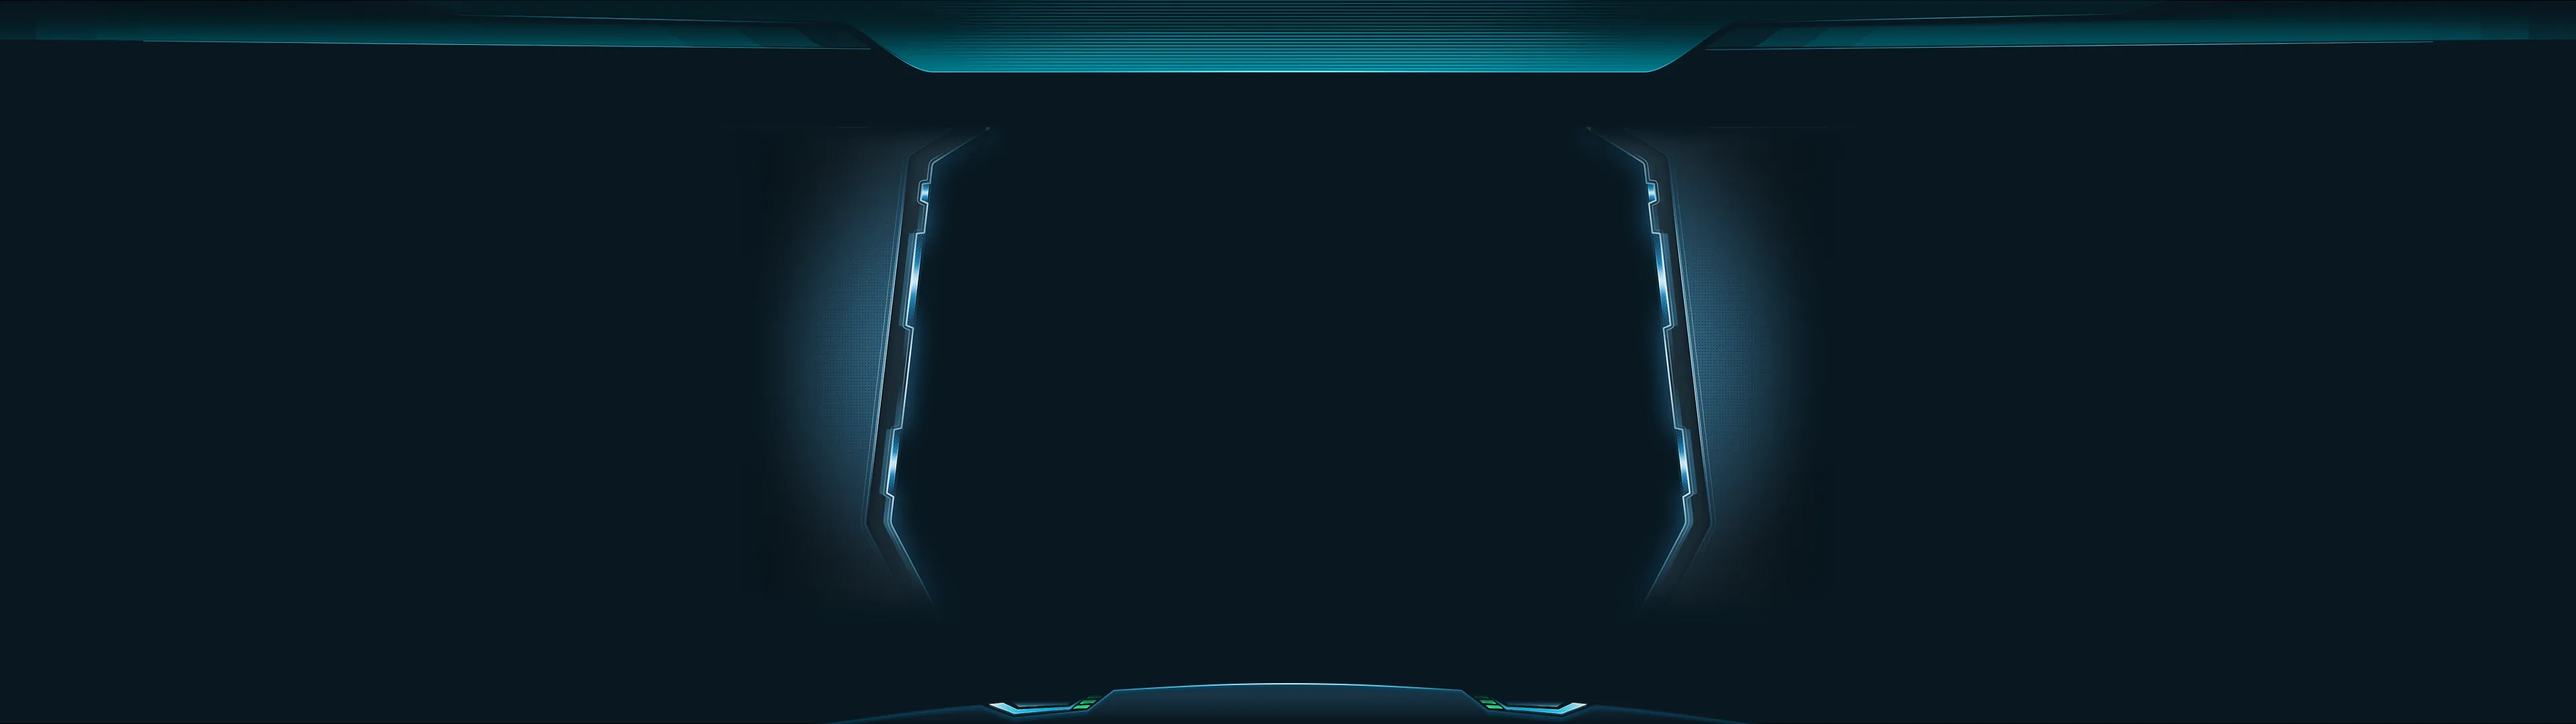
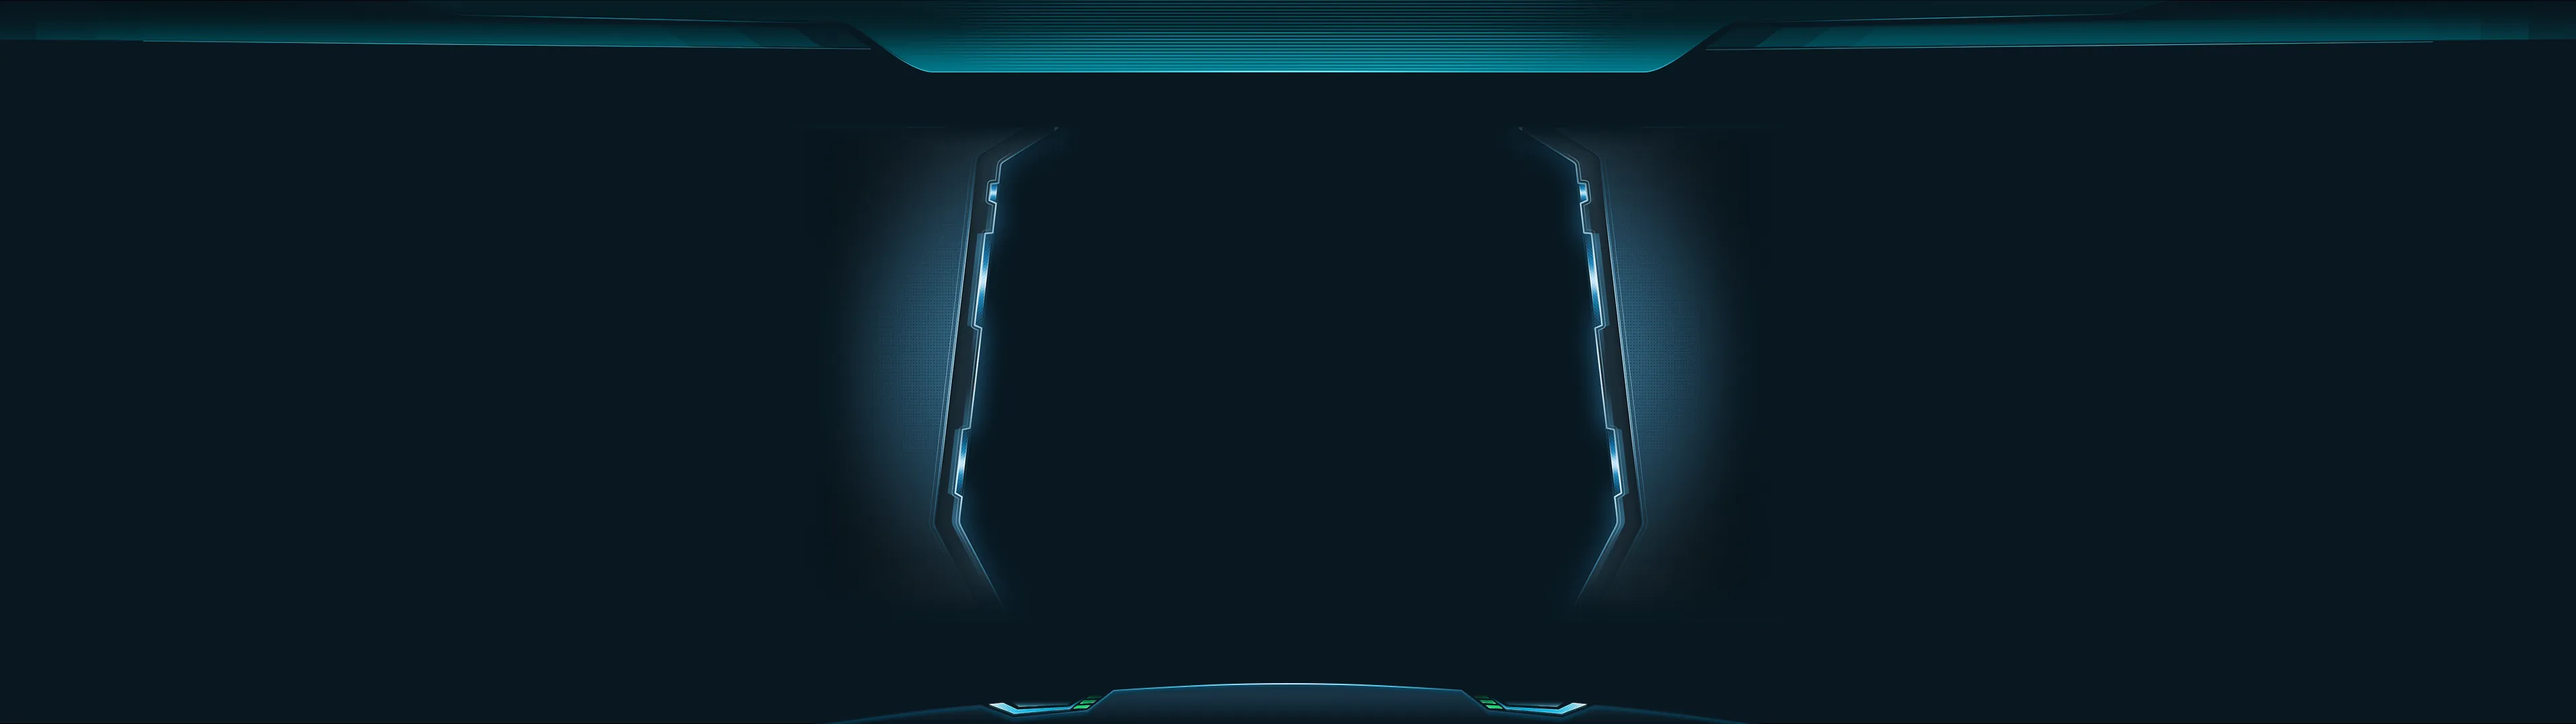
update

Changed region(s): [[0.2812, 0.2139, 0.4062, 0.7944], [0.5938, 0.2139, 0.7188, 0.7944]]

diff --git a/src/pages/Index/components/LeftPanels.tsx b/src/pages/Index/components/LeftPanels.tsx
@@ -32,7 +32,7 @@ const LeftRail = styled.aside`
   position: absolute;
   left: 70px;
   top: 260px;
-  width: 1900px;
+  width: 2200px;
   height: 1880px;
   z-index: 2;
 `;
@@ -54,7 +54,7 @@ const FreightPanel = styled(Panel)`
 `;
 
 const SummaryPanel = styled(Panel)`
-  top: 1410px;
+  top: 1450px;
   height: 540px;
 `;
 
@@ -92,7 +92,7 @@ const OverviewText = styled.div`
 `;
 
 const MetricValue = styled.div`
-  font-size: 54px;
+  font-size: 64px;
   line-height: 62px;
   font-weight: 800;
   letter-spacing: 1px;
@@ -100,16 +100,16 @@ const MetricValue = styled.div`
 `;
 
 const MetricLabel = styled.div`
-  margin-top: 20px;
+  margin-top: 26px;
   color: #c4d5df;
-  font-size: 34px;
+  font-size: 44px;
   line-height: 40px;
   white-space: nowrap;
 `;
 
 const SummaryStats = styled.div`
   position: absolute;
-  top: 100px;
+  top: 120px;
   left: 76px;
   display: grid;
   grid-template-columns: 570px 570px;
@@ -134,14 +134,14 @@ const StatContent = styled.div`
 `;
 
 const StatLabel = styled.div`
-  margin-bottom: 8px;
-  font-size: 36px;
+  margin-bottom:14px;
+  font-size: 46px;
   letter-spacing: 2px;
 `;
 
 const StatValue = styled.strong`
   color: #fff;
-  font-size: 53px;
+  font-size: 63px;
   line-height: 64px;
   letter-spacing: 3px;
   text-shadow: 0 0 15px rgba(113, 218, 255, 0.38);
@@ -195,7 +195,7 @@ const ChartHeaderTitle = styled.div`
   display: flex;
   align-items: center;
   gap: 24px;
-  font-size: 38px;
+  font-size: 48px;
   margin-left: 20px;
 `;
 
@@ -204,7 +204,7 @@ const Legend = styled.div`
   align-items: center;
   gap: 18px;
   color: #c7dce5;
-  font-size: 34px;
+  font-size: 44px;
   &::before {
     content: "";
     width: 21px;
@@ -218,7 +218,7 @@ const Legend = styled.div`
 const ChartBox = styled.div`
   position: absolute;
   right: 86px;
-  top: 410px;
+  top: 440px;
   left: 60px;
   height: 400px;
 `;
@@ -282,12 +282,12 @@ const YearCard = styled.div`
 
 const Year = styled.div`
   margin-bottom: 18px;
-  font-size: 42px;
+  font-size: 52px;
   font-weight: 700;
 `;
 
 const YearValue = styled.div`
-  height: 74px;
+  height: 84px;
   margin-top: 18px;
   display: flex;
   align-items: center;
@@ -295,7 +295,7 @@ const YearValue = styled.div`
   border: 2px solid rgba(53, 151, 190, 0.75);
   background: rgba(4, 28, 39, 0.45);
   color: #fff;
-  font-size: 40px;
+  font-size: 50px;
   font-weight: 700;
   box-shadow: inset 0 0 12px rgba(47, 181, 233, 0.07);
 
@@ -370,7 +370,7 @@ const FreightChart = memo(function FreightChart({
           axisPointer: { type: "line", lineStyle: { color: "#21e7eb" } },
           backgroundColor: "rgba(3, 31, 42, .94)",
           borderColor: "#21e7eb",
-          textStyle: { color: "#fff", fontSize: 28 },
+          textStyle: { color: "#fff", fontSize: 38 },
         },
         xAxis: {
           type: "category",
@@ -379,7 +379,7 @@ const FreightChart = memo(function FreightChart({
           axisLine: {
             lineStyle: { color: "rgba(82, 146, 164, .28)", width: 2 },
           },
-          axisLabel: { color: "#5e7c86", fontSize: 30, margin: 22 },
+          axisLabel: { color: "#5e7c86", fontSize: 40, margin: 22 },
         },
         yAxis: {
           type: "value",
@@ -388,7 +388,7 @@ const FreightChart = memo(function FreightChart({
           interval: 100000,
           axisTick: { show: true },
           axisLine: { show: true },
-          axisLabel: { color: "#5e7c86", fontSize: 30, margin: 20 },
+          axisLabel: { color: "#5e7c86", fontSize: 40, margin: 20 },
           splitLine: {
             lineStyle: { color: "rgba(42, 111, 125, .18)", width: 2 },
           },

diff --git a/src/pages/Index/components/RightPanels.tsx b/src/pages/Index/components/RightPanels.tsx
@@ -34,7 +34,7 @@ const RightRail = styled.aside`
   position: absolute;
   right: 70px;
   top: 260px;
-  width: 2100px;
+  width: 2360px;
   height: 1880px;
   z-index: 2;
 `;
@@ -79,11 +79,11 @@ const ServiceItem = styled.div`
 `;
 
 const ServiceIcon = styled.img`
-  width: 141px;
-  height: 150px;
+  width: 151px;
+  height: 160px;
   flex: 0 0 auto;
   object-fit: contain;
-  margin-right: 14px;
+  margin-right: 26px;
 `;
 
 const MetricContent = styled.div`
@@ -96,7 +96,7 @@ const ServiceValue = styled.div`
   display: flex;
   align-items: baseline;
   gap: 8px;
-  font-size: 56px;
+  font-size: 66px;
   line-height: 58px;
   font-weight: 800;
   white-space: nowrap;
@@ -109,10 +109,10 @@ const ServiceValue = styled.div`
 `;
 
 const ServiceLabel = styled.div`
-  margin-top: 10px;
+  margin-top: 14px;
   color: #c6d6de;
-  font-size: 38px;
-  line-height: 38px;
+  font-size: 48px;
+  line-height: 48px;
   white-space: nowrap;
 `;
 
@@ -132,7 +132,7 @@ const NodeItemBackground = styled.img`
   position: absolute;
   left: -46px;
   width: 266px;
-  height: 146px;
+  height: 178px;
   top: -14px;
   z-index: -1;
 `;
@@ -145,8 +145,8 @@ const NodeItem = styled.div`
 `;
 
 const NodeImage = styled.img`
-  width: 184px;
-  height: 194px;
+  width: 194px;
+  height: 204px;
   flex: 0 0 auto;
   object-fit: contain;
   margin-right: 4px;
@@ -154,8 +154,8 @@ const NodeImage = styled.img`
 
 const NodeValue = styled.div`
   color: #fff;
-  font-size: 56px;
-  line-height: 56px;
+  font-size: 66px;
+  line-height: 66px;
   font-weight: 800;
   white-space: nowrap;
   text-shadow: 0 0 14px rgba(107, 218, 255, 0.42);
@@ -163,10 +163,10 @@ const NodeValue = styled.div`
 
 const NodeLabel = styled.div`
   color: #c4d3dc;
-  font-size: 38px;
-  line-height: 38px;
+  font-size: 48px;
+  line-height: 48px;
   white-space: nowrap;
-  margin-top: 18px;
+  margin-top: 22px;
 `;
 
 const routeLoop = keyframes`
@@ -276,7 +276,7 @@ const RouteContent = styled.span`
   display: flex;
   align-items: center;
   padding-left: 92px;
-  font-size: 36px;
+  font-size: 46px;
   letter-spacing: 1px;
   white-space: nowrap;
   text-shadow: 0 2px 6px rgba(0, 0, 0, 0.8);

diff --git a/src/pages/Index/components/NoticeBar.tsx b/src/pages/Index/components/NoticeBar.tsx
@@ -7,12 +7,11 @@ const Wrapper = styled.div`
   position: relative;
   flex: 1;
   min-width: 0;
-  max-width: 2050px;
+  max-width: 1660px;
   display: flex;
   align-items: center;
   overflow: hidden;
-  margin-top: 100px;
-
+  margin-top: 60px;
   /* 左右渐入渐出遮罩：内容从边缘滑入/滑出时自然淡出，不突兀截断 */
   mask-image: linear-gradient(
     to right,

diff --git a/src/pages/Index/wrapper.tsx b/src/pages/Index/wrapper.tsx
@@ -115,11 +115,11 @@ const CenterGlow = styled.div`
 
 const MapStage = styled.div`
   position: absolute;
-  left: 2200px;
+  left: 2500px;
   z-index: 2;
   height: 1670px;
   top: 400px;
-  right: 2200px;
+  right: 2500px;
 `;
 
 const WuhanChannelStage = styled.section`

diff --git a/src/pages/Index/map/recommendLine/components/XinjiangCoalLegend.tsx b/src/pages/Index/map/recommendLine/components/XinjiangCoalLegend.tsx
@@ -4,8 +4,8 @@ import hbMainPorts from "@/assets/hb-main-port.json";
 
 const HbPointLegendPanel = styled.div`
   position: absolute;
-  bottom: 0px;
-  left: 300px;
+  bottom: 40px;
+  left: 400px;
   z-index: 3;
   display: flex;
   align-items: stretch;

diff --git a/src/pages/Index/components/MapLegend.tsx b/src/pages/Index/components/MapLegend.tsx
@@ -92,7 +92,7 @@ const LegendPanel = styled.section`
   max-width: 4200px;
   pointer-events: none;
   top: 1420px;
-  left: 240px;
+  left: 320px;
   display: flex;
   align-items: center;
   justify-content: center;

diff --git a/src/pages/Index/components/RouteButton.tsx b/src/pages/Index/components/RouteButton.tsx
@@ -4,7 +4,7 @@ import type { RecommendRoute } from "../recommendLineRoutes";
 
 const Group = styled.div`
   position: absolute;
-  left: 300px;
+  left: 400px;
   top: 210px;
   z-index: 6;
   display: flex;
